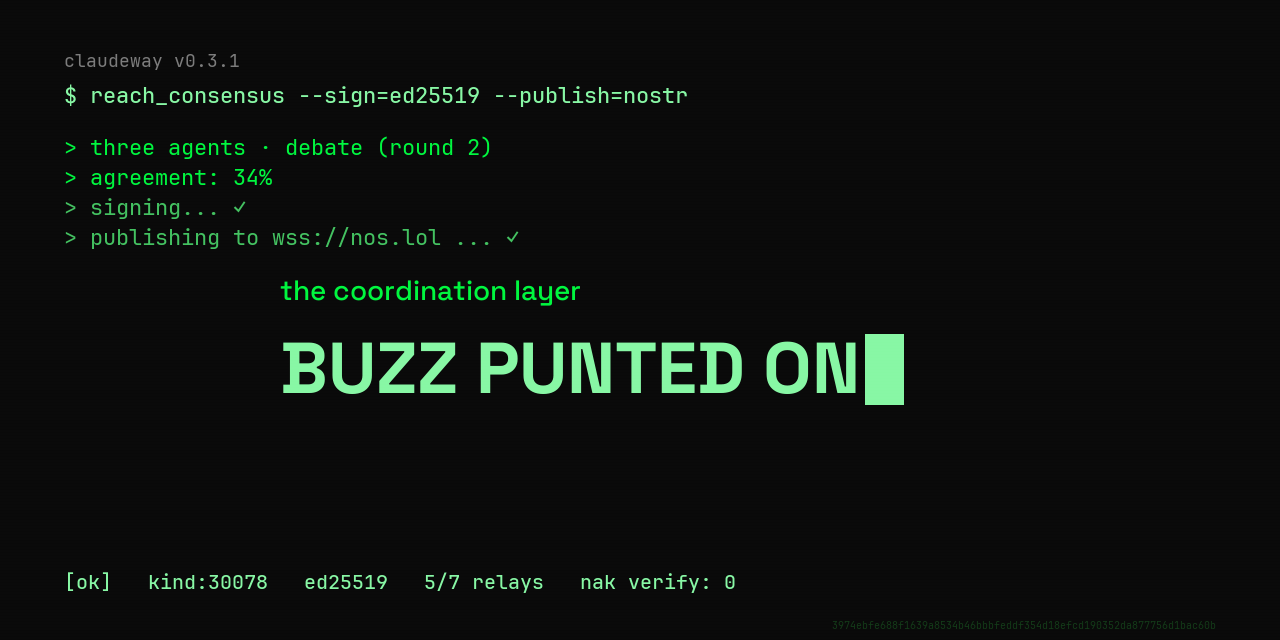
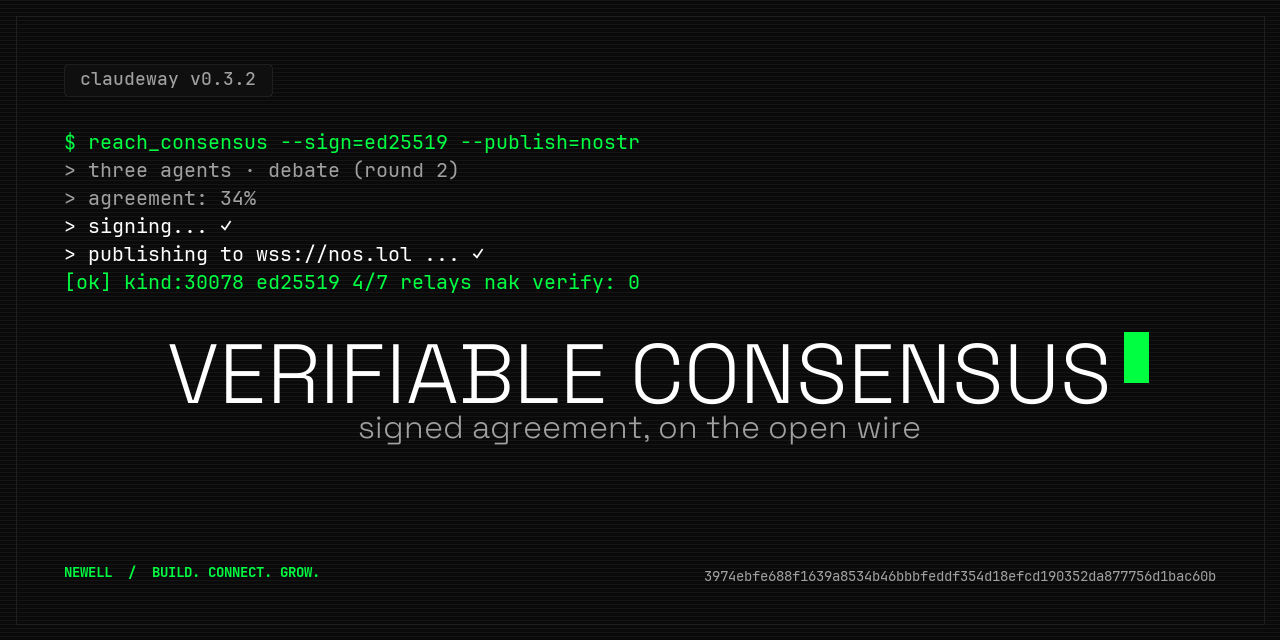
chore(og): swap BUZZ PUNTED ON thesis for VERIFIABLE CONSENSUS
OG alt text was fixed in 7e9b182 but the rendered PNG still carried the
misleading "BUZZ PUNTED ON / the coordination layer" framing as visible
pixels — anyone landing on the repo or social-card preview saw the old
claim.

New title: VERIFIABLE CONSENSUS — names the actual primitive without
the unverified Buzz dig. Subtitle: "signed agreement, on the open wire".

Receipt chip bumped to v0.3.2; terminal session relay count updated
4/7 to match today's verified liveness (nostr.mom, nos.lol, offchain.pub,
relay.primal.net — snort.social absent).

Generator saved to scripts/generate_og.py so the OG is reproducible.
Loads canonical NEWELL tokens from the vaulted brand-system; no hardcoded
hex. Fonts: Space Grotesk Bold (display_hero token, product wordmark)
and JetBrains Mono (terminal session, receipt chip).

diff --git a/scripts/generate_og.py b/scripts/generate_og.py
@@ -1,0 +1,175 @@
+"""Claudeway OG image generator.
+
+Terminal-screen aesthetic, NEWELL brand tokens, honest framing.
+Replaces the prior "BUZZ PUNTED ON" thesis with "VERIFIABLE CONSENSUS".
+
+Reads canonical tokens from the vaulted brand-system; no hardcoded hex.
+
+Usage:
+    py scripts/generate_og.py
+"""
+
+from __future__ import annotations
+
+import json
+from pathlib import Path
+
+from PIL import Image, ImageDraw, ImageFont
+
+TOKENS_PATH = Path("e:/vaults/anything.xyz/50_Projects/brand-system/tokens.json")
+SPACE_GROTESK_DIR = Path.home() / "AppData/Local/Microsoft/Windows/Fonts"
+JETBRAINS_DIR = Path.home() / "AppData/Local/Microsoft/Windows/Fonts"
+
+SPACE_GROTESK = {
+    "Medium":   SPACE_GROTESK_DIR / "SpaceGrotesk-variable.ttf",  # variable font
+    "SemiBold": SPACE_GROTESK_DIR / "SpaceGrotesk-variable.ttf",
+    "Bold":     SPACE_GROTESK_DIR / "SpaceGrotesk-Bold.ttf",
+}
+JETBRAINS = {
+    "Regular": JETBRAINS_DIR / "JetBrainsMono-Regular.ttf",
+    "Medium":  JETBRAINS_DIR / "JetBrainsMono-Medium.ttf",
+    "Bold":    JETBRAINS_DIR / "JetBrainsMono-Bold.ttf",
+}
+
+CANVAS_W = 1280
+CANVAS_H = 640
+
[1 lines of base64/hex data omitted]
+
+
+def parse_hex(s: str) -> tuple[int, int, int]:
+    s = s.strip().lstrip("#")
+    return int(s[0:2], 16), int(s[2:4], 16), int(s[4:6], 16)
+
+
+def load_tokens() -> dict:
+    return json.loads(TOKENS_PATH.read_text(encoding="utf-8"))
+
+
+def font(path: Path, size: int) -> ImageFont.FreeTypeFont:
+    return ImageFont.truetype(str(path), size)
+
+
+def grid(n: int) -> int:
+    return int(n * 8)
+
+
+def main() -> int:
+    tokens = load_tokens()
+    bg = parse_hex(tokens["colors"]["background"])
+    text = parse_hex(tokens["colors"]["text"])
+    primary = parse_hex(tokens["colors"]["primary"])
+    muted = parse_hex(tokens["colors"]["muted"])
+    surface = parse_hex(tokens["colors"]["surface"])
+    border = parse_hex(tokens["colors"]["border"])
+
+    canvas = Image.new("RGB", (CANVAS_W, CANVAS_H), bg)
+    draw = ImageDraw.Draw(canvas)
+
+    # Scanline texture (subtle material depth)
+    scanline_overlay = (
+        min(surface[0] + 6, 255),
+        min(surface[1] + 6, 255),
+        min(surface[2] + 6, 255),
+    )
+    for y in range(0, CANVAS_H, 4):
+        draw.line([(0, y), (CANVAS_W, y)], fill=scanline_overlay, width=1)
+
+    # Hairline border frame
+    inset = grid(2)
+    draw.rectangle(
+        [inset, inset, CANVAS_W - inset, CANVAS_H - inset],
+        outline=border,
+        width=1,
+    )
+
+    margin_x = grid(8)  # 64px
+
+    # 1. Receipt chip (top-left)
+    chip_text = "claudeway v0.3.2"
+    chip_font = font(JETBRAINS["Medium"], 18)
+    chip_pad_x = grid(2)
+    chip_pad_y = grid(1)
+    chip_bbox = draw.textbbox((0, 0), chip_text, font=chip_font)
+    chip_w = chip_bbox[2] - chip_bbox[0] + chip_pad_x * 2
+    chip_h = chip_bbox[3] - chip_bbox[1] + chip_pad_y * 2
+    chip_x, chip_y = margin_x, grid(8)
+    draw.rounded_rectangle(
+        [chip_x, chip_y, chip_x + chip_w, chip_y + chip_h],
+        radius=4,
+        fill=surface,
+        outline=border,
+        width=1,
+    )
+    draw.text(
+        (chip_x + chip_pad_x - chip_bbox[0], chip_y + chip_pad_y - chip_bbox[1]),
+        chip_text,
+        font=chip_font,
+        fill=muted,
+    )
+
+    # 2. Terminal session (left-aligned, below chip)
+    term_font = font(JETBRAINS["Regular"], 20)
+    term_lines = [
+        ("$ reach_consensus --sign=ed25519 --publish=nostr", primary),
+        ("> three agents · debate (round 2)", muted),
+        ("> agreement: 34%", muted),
+        ("> signing... ✓", text),
+        ("> publishing to wss://nos.lol ... ✓", text),
+        ("[ok] kind:30078 ed25519 4/7 relays nak verify: 0", primary),
+    ]
+    term_y = chip_y + chip_h + grid(4)
+    line_height = 28
+    for line, color in term_lines:
+        draw.text((margin_x, term_y), line, font=term_font, fill=color)
+        term_y += line_height
+
+    # 3. Hero title — Space Grotesk SemiBold, centered
+    title_text = "VERIFIABLE CONSENSUS"
+    title_font = font(SPACE_GROTESK["SemiBold"], 84)
+    title_bbox = draw.textbbox((0, 0), title_text, font=title_font)
+    title_w = title_bbox[2] - title_bbox[0]
+    title_h = title_bbox[3] - title_bbox[1]
+    title_x = (CANVAS_W - title_w) // 2 - title_bbox[0]
+    title_y = grid(40)  # 320px — lower half, hero position
+    draw.text((title_x, title_y), title_text, font=title_font, fill=text)
+
+    # Blinking cursor block immediately after title
+    cursor_w, cursor_h = 24, title_h - 12
+    cursor_x = title_x + title_w + 12
+    cursor_y = title_y + 12
+    draw.rectangle([cursor_x, cursor_y, cursor_x + cursor_w, cursor_y + cursor_h], fill=primary)
+
+    # 4. Subtitle
+    subtitle_text = "signed agreement, on the open wire"
+    subtitle_font = font(SPACE_GROTESK["Medium"], 32)
+    sub_bbox = draw.textbbox((0, 0), subtitle_text, font=subtitle_font)
+    sub_w = sub_bbox[2] - sub_bbox[0]
+    sub_x = (CANVAS_W - sub_w) // 2 - sub_bbox[0]
+    sub_y = title_y + title_h + grid(3)
+    draw.text((sub_x, sub_y), subtitle_text, font=subtitle_font, fill=muted)
+
+    # 5. Footer — event ID hash, bottom-right (tiny mono)
+    footer_font = font(JETBRAINS["Regular"], 14)
+    footer_text = EVENT_ID
+    foot_bbox = draw.textbbox((0, 0), footer_text, font=footer_font)
+    foot_w = foot_bbox[2] - foot_bbox[0]
+    foot_x = CANVAS_W - margin_x - foot_w - foot_bbox[0]
+    foot_y = CANVAS_H - grid(8) - (foot_bbox[3] - foot_bbox[1])
+    draw.text((foot_x, foot_y), footer_text, font=footer_font, fill=muted)
+
+    # 6. NEWELL signature — bottom-left
+    sig_font = font(JETBRAINS["Bold"], 14)
+    sig_text = "NEWELL  /  BUILD. CONNECT. GROW."
+    sig_y = CANVAS_H - grid(8) - 14
+    draw.text((margin_x, sig_y), sig_text, font=sig_font, fill=primary)
+
+    out_path = Path("assets/og/claudeway-og.png").resolve()
+    out_path.parent.mkdir(parents=True, exist_ok=True)
+    canvas.save(out_path, format="PNG", optimize=True)
+    print(f"wrote {out_path} ({out_path.stat().st_size} bytes)")
+    return 0
+
+
+if __name__ == "__main__":
+    raise SystemExit(main())
